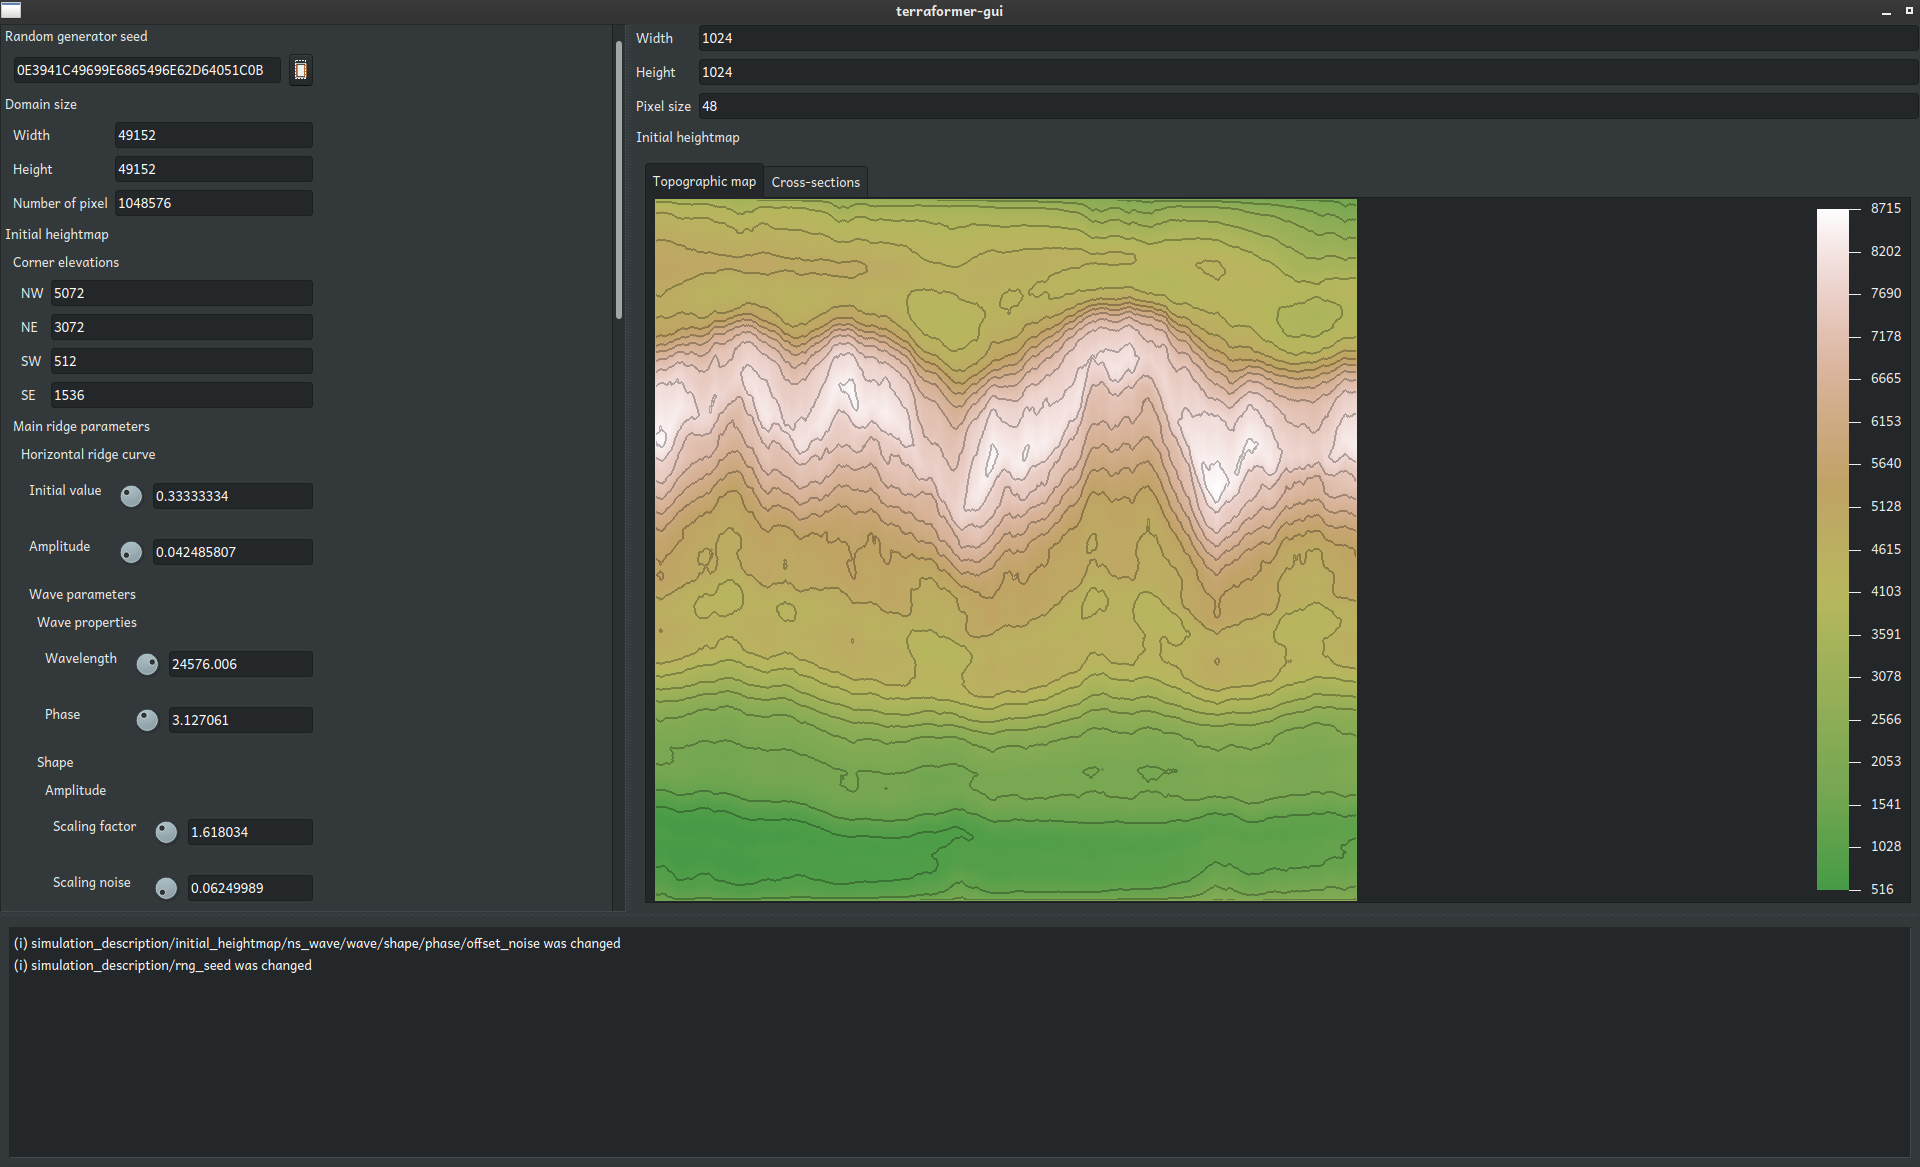
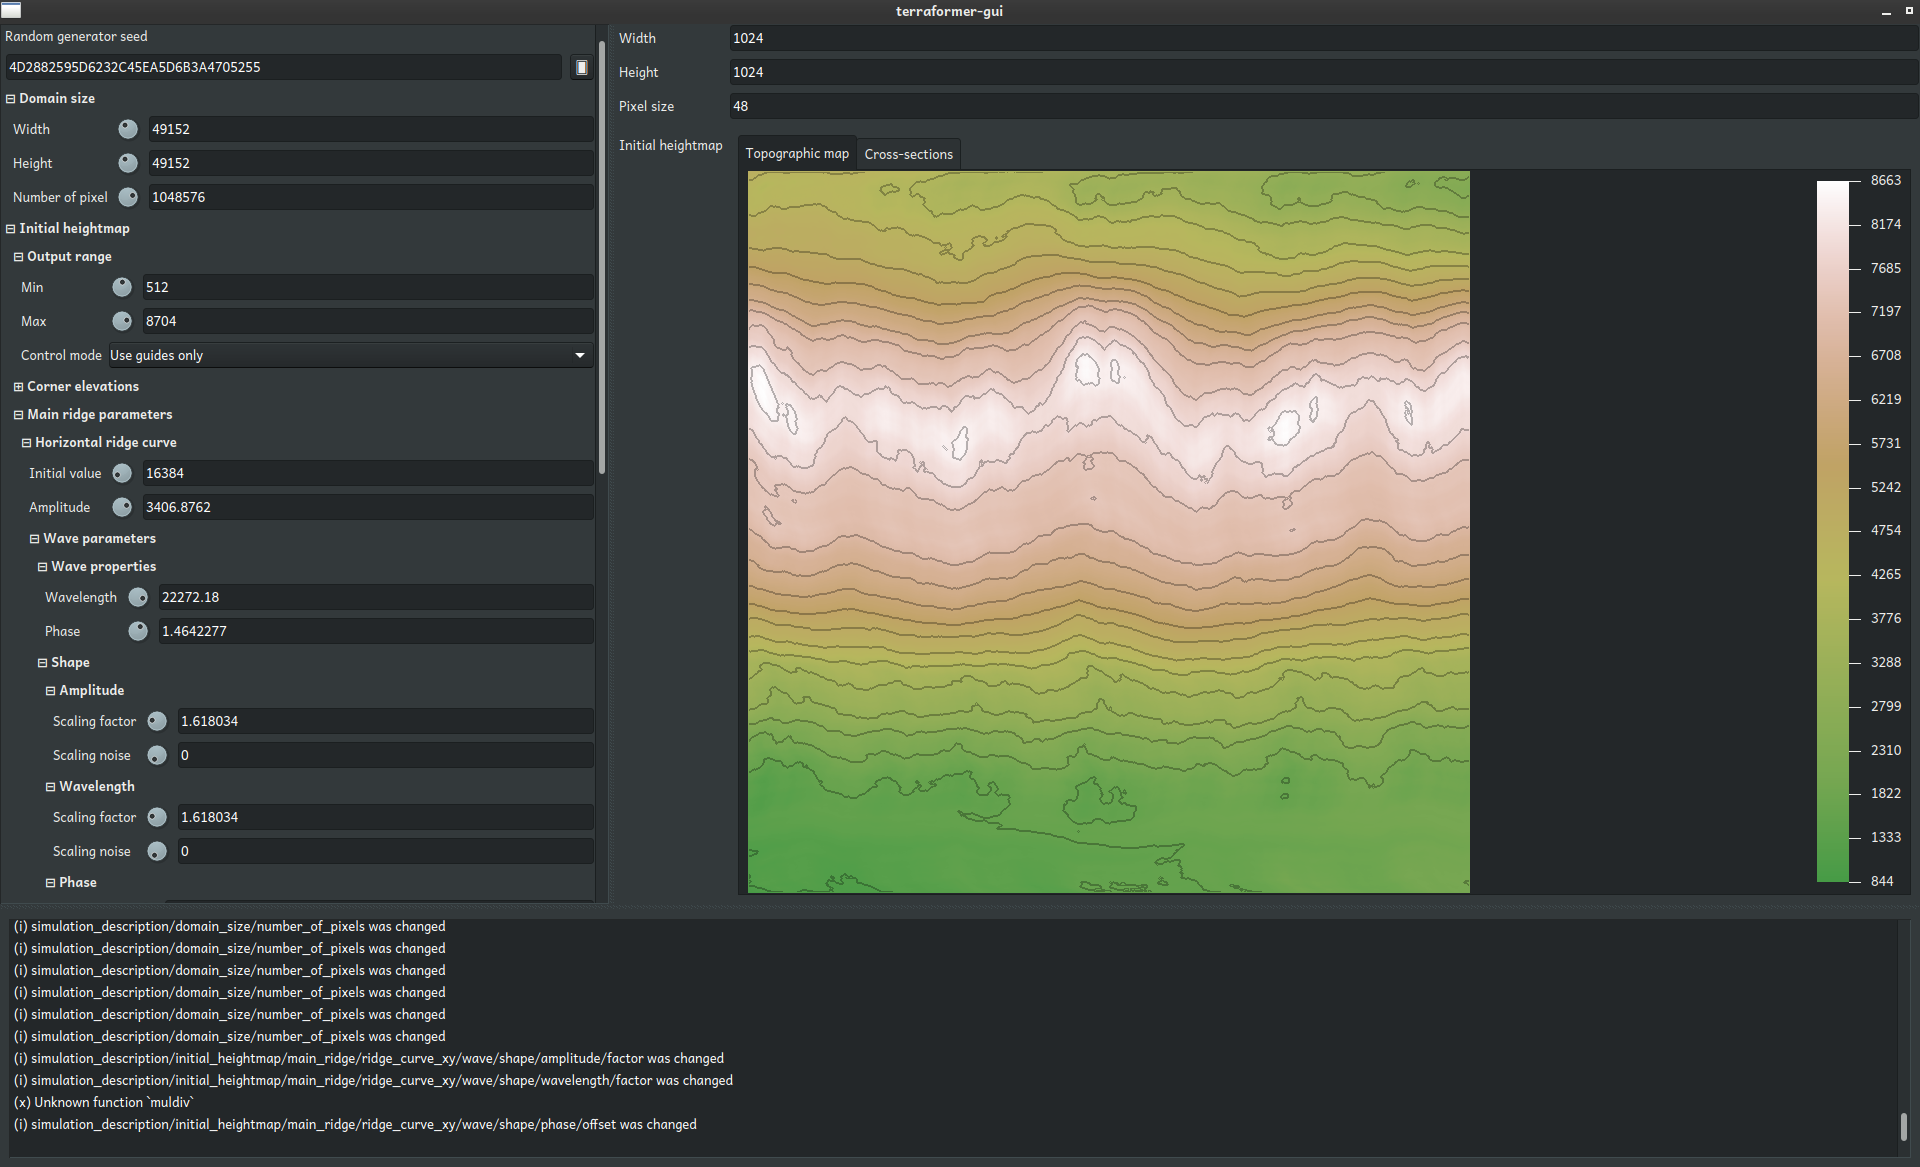
Reset all defaults and generate some images

Changed region(s): [[0.2812, 0.0308, 0.7812, 0.7712], [0.0, 0.0308, 0.375, 0.9871], [0.9375, 0.1542, 1.0, 0.7712]]

diff --git a/bin/terraformer-gui.cpp b/bin/terraformer-gui.cpp
@@ -37,103 +37,7 @@
 int main(int argc, char** argv)
 {
 
-	terraformer::simulation_description sim{
-		.rng_seed = terraformer::random_bit_source{}.get<terraformer::rng_seed_type>(),
-		.domain_size{},
-		.initial_heightmap{
-			.output_range{
-				.min = terraformer::elevation{512.0f},
-				.max = terraformer::elevation{8704.0f},
-				.control_mode = terraformer::elevation_range_control_mode::use_guides_only
-			},
-			.corners{
-				.nw = terraformer::elevation{5072.0f},
-				.ne = terraformer::elevation{3072.0f},
-				.sw = terraformer::elevation{512.0f},
-				.se = terraformer::elevation{1536.0f},
-			},
-			.main_ridge{
-				.ridge_curve_xy{
-					.initial_value = terraformer::domain_length{16384.0f},
-					.amplitude = terraformer::horizontal_amplitude{6144.0f},
-					.wave{
-						.shape{
-							.amplitude{
-								.factor = terraformer::scaling_factor{std::numbers::phi_v<float>},
-								.scaling_noise = terraformer::noise_amplitude{1.0f/16.0f}
-							},
-							.wavelength{
-								.factor = terraformer::scaling_factor{std::numbers::phi_v<float>},
-								.scaling_noise = terraformer::noise_amplitude{std::numbers::phi_v<float>/64.0f}
-							},
-							.phase{
-								.offset = terraformer::phase_offset{2.0f - std::numbers::phi_v<float>},
-								.offset_noise = terraformer::noise_amplitude{1.0f/24.0f}
-							}
-						},
-						.wave_properties{
-							.wavelength = terraformer::domain_length{24576.0f},
-							.phase = terraformer::global_phase{3.127061f},
-						}
-					}
-				},
-				.ridge_curve_xz{
-					.initial_value = terraformer::elevation{7168.0f},
-					.amplitude = terraformer::vertical_amplitude{512.0f},
-					.wave{
-						.shape{
-							.amplitude{
-								.factor = terraformer::scaling_factor{std::numbers::phi_v<float>},
-								.scaling_noise = terraformer::noise_amplitude{1.0f/16.0f}
-							},
-							.wavelength{
-								.factor = terraformer::scaling_factor{std::numbers::phi_v<float>},
-								.scaling_noise = terraformer::noise_amplitude{std::numbers::phi_v<float>/64.0f}
-							},
-							.phase{
-								.offset = terraformer::phase_offset{2.0f - std::numbers::phi_v<float>},
-								.offset_noise = terraformer::noise_amplitude{1.0f/16.0f}
-							}
-						},
-						.wave_properties{
-							.wavelength = terraformer::domain_length{13475.382f},
-							.phase = terraformer::global_phase{1.071294f}
-						}
-					}
-				}
-			},
-			.ns_distortion{},
-			.ns_wave{
-				.nominal_oscillations{
-					.initial_amplitude = terraformer::vertical_amplitude{2048.0f},
-					.half_distance = terraformer::domain_length{32768.0f},
-					.wave{
-						.shape{
-							.amplitude{
-								.factor = terraformer::scaling_factor{std::numbers::phi_v<float>},
-								.scaling_noise = terraformer::noise_amplitude{1.0f/16.0f}
-							},
-							.wavelength{
-								.factor = terraformer::scaling_factor{1.378240f},
-								.scaling_noise = terraformer::noise_amplitude{1.378240f/1024.0f}
-							},
-							.phase{
-								.offset = terraformer::phase_offset{2.0f - std::numbers::phi_v<float>},
-								.offset_noise = terraformer::noise_amplitude{1.0f/24.0f}
-							}
-						},
-						.wave_properties{
-							.wavelength = terraformer::domain_length{32768.0f},
-							.phase = terraformer::global_phase{7.9810004f}
-						}
-					}
-				},
-				.amplitude_modulation{},
-				.wavelength_modulation{},
-				.half_distance_modulation{}
-			}
-		}
-	};
+	terraformer::simulation_description sim{};
 
 	auto initial_heightmap = make_heightmap(sim.domain_size);
 	terraformer::random_generator rng{sim.rng_seed};

diff --git a/README.md b/README.md
@@ -11,6 +11,4 @@ for use in computer graphics.
 
 ![A rendering of a heightmap produced by Terraformer](experiments/back.jpg)
 
-![A rendering of a heightmap produced by Terraformer](experiments/topcam-look-south.jpg)
-
 [![A demonstration of generated lightmaps](https://img.youtube.com/vi/9-fhsvYm4iE/maxresdefault.jpg)](https://youtu.be/9-fhsvYm4iE)
